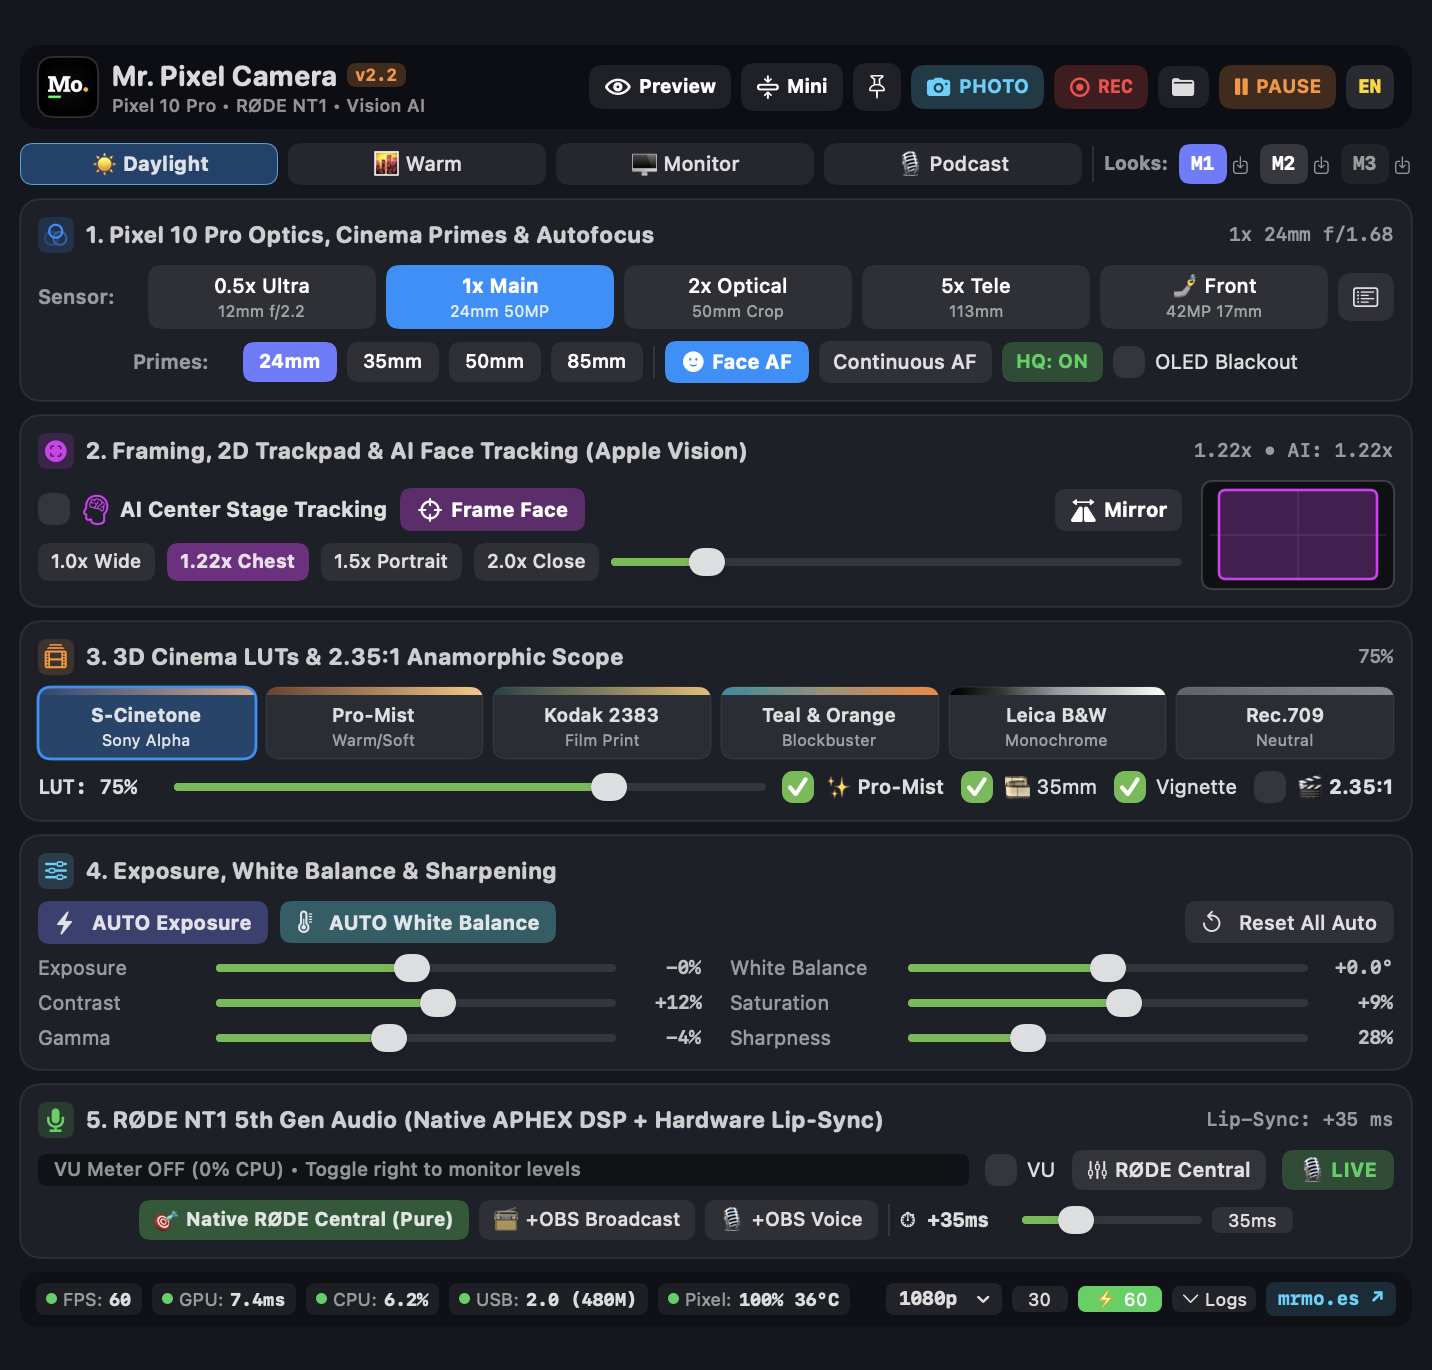
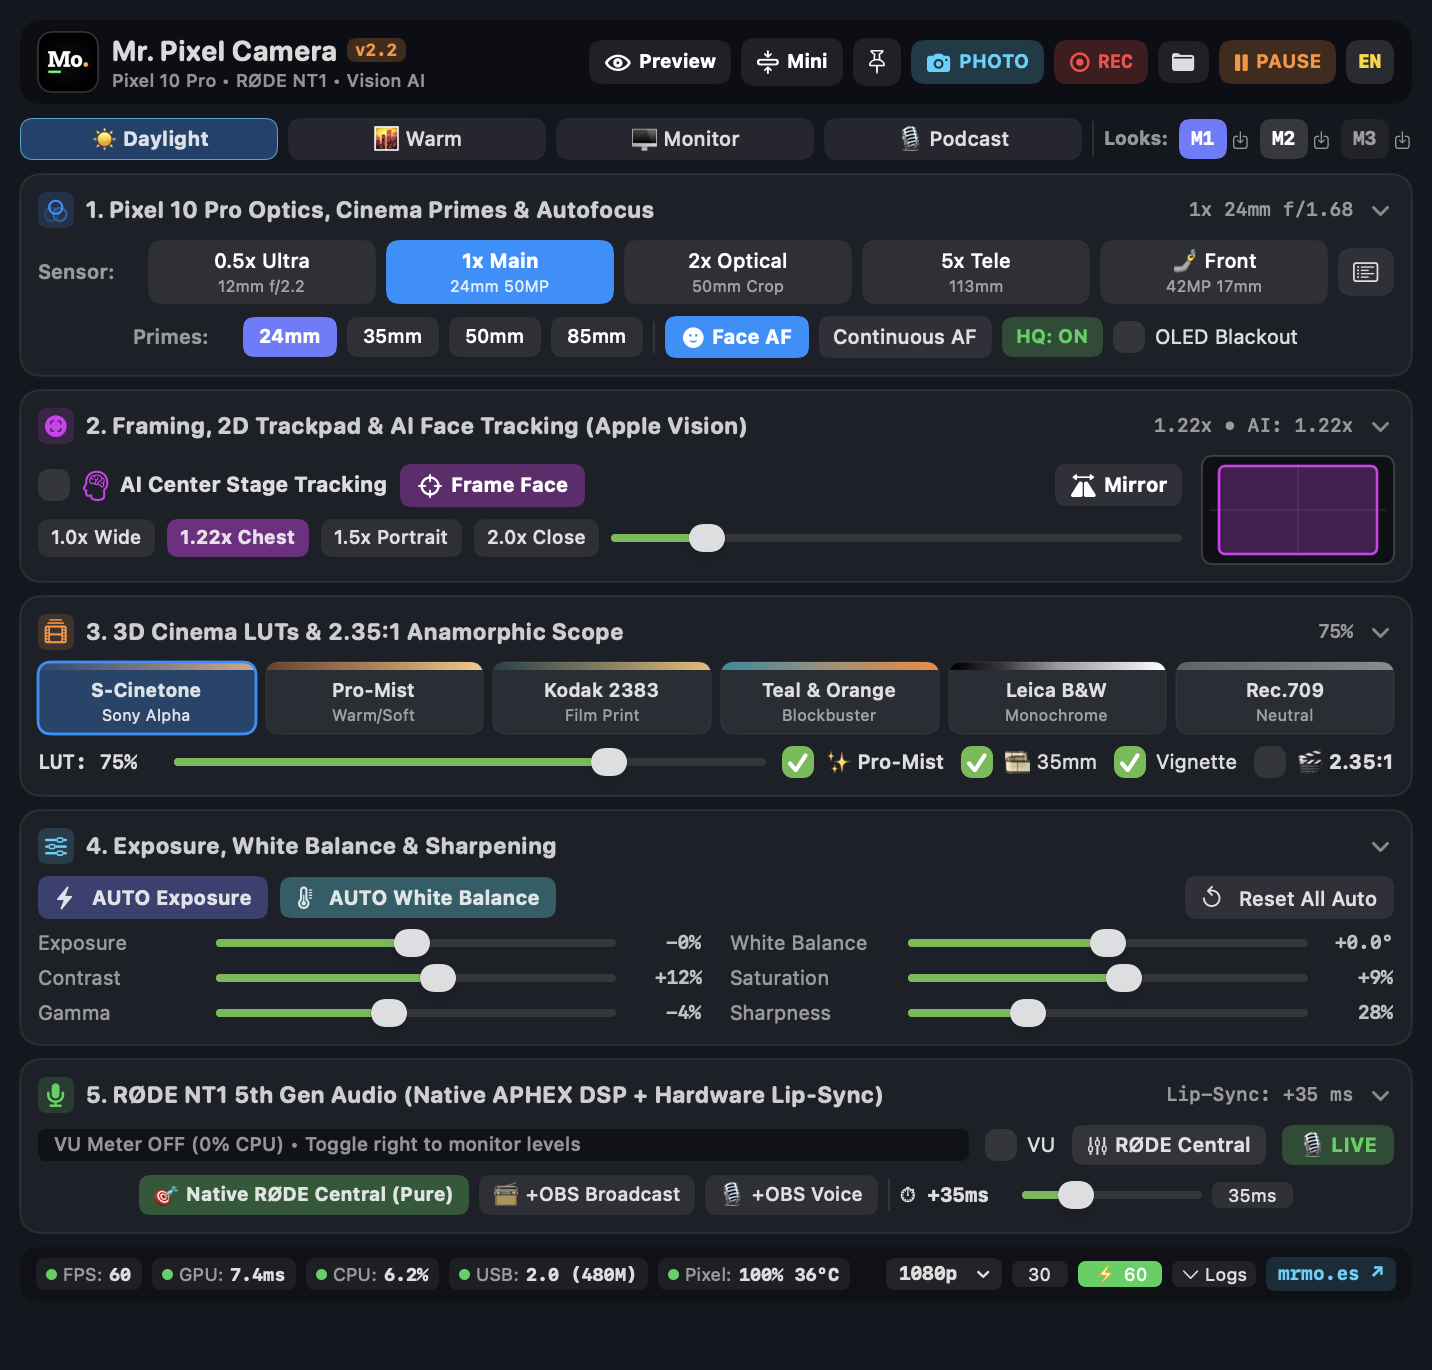
Add collapsible section accordions with auto-resize, 3-way OLED Blackout auto-restore, and tuned 35mm Grain

diff --git a/macos/PixelProCamStudio.swift b/macos/PixelProCamStudio.swift
@@ -107,6 +107,7 @@ struct StudioPersistentState: Codable {
     var showGridOverlay: Bool
     var isHQMode: Bool
     var activeMemorySlot: Int
+    var collapsedCards: [Int]?
     var windowX: Double?
     var windowY: Double?
 }
@@ -130,6 +131,7 @@ final class StudioController: NSObject, ObservableObject, URLSessionWebSocketDel
     @Published var miniMode: Bool = false
     @Published var showPreview: Bool = false
     @Published var showGridOverlay: Bool = true
+    @Published var collapsedCards: Set<Int> = []
     @Published var activeMemorySlot: Int = 0 // 0 = none, 1..3 = M1..M3
     @Published var savedSlotsMask: Set<Int> = []
     @Published var autoStartObsEnabled: Bool = {
@@ -368,6 +370,9 @@ final class StudioController: NSObject, ObservableObject, URLSessionWebSocketDel
         showGridOverlay = s.showGridOverlay
         isHQMode = s.isHQMode
         activeMemorySlot = s.activeMemorySlot
+        if let cc = s.collapsedCards {
+            collapsedCards = Set(cc)
+        }
         if let wx = s.windowX, let wy = s.windowY {
             savedWindowOrigin = NSPoint(x: wx, y: wy)
         }
@@ -417,6 +422,7 @@ final class StudioController: NSObject, ObservableObject, URLSessionWebSocketDel
             showGridOverlay: showGridOverlay,
             isHQMode: isHQMode,
             activeMemorySlot: activeMemorySlot,
+            collapsedCards: Array(collapsedCards).sorted(),
             windowX: savedWindowOrigin.map { Double($0.x) },
             windowY: savedWindowOrigin.map { Double($0.y) }
         )
@@ -424,6 +430,35 @@ final class StudioController: NSObject, ObservableObject, URLSessionWebSocketDel
             UserDefaults.standard.set(encoded, forKey: lastSetupKey)
             hasSavedLastSetup = true
         }
+    }
+
+    // MARK: - Accordion Collapse State & Dynamic Window Height
+    func toggleCardCollapsed(_ cardId: Int) {
+        if collapsedCards.contains(cardId) {
+            collapsedCards.remove(cardId)
+        } else {
+            collapsedCards.insert(cardId)
+        }
+        scheduleSaveLastSetup()
+        onWindowSizeChangeRequested?()
+    }
+
+    var targetWindowHeight: CGFloat {
+        if miniMode { return 118 }
+        var h: CGFloat = 685
+        let bodySavings: [Int: CGFloat] = [
+            1: 72,  // Card 1: Optics & Primes
+            2: 66,  // Card 2: Framing, 2D Pad & AI
+            3: 74,  // Card 3: 3D LUTs & Shaders
+            4: 102, // Card 4: Exposure, WB & Detail
+            5: 66   // Card 5: RØDE Audio & Lip-Sync
+        ]
+        for id in collapsedCards {
+            h -= (bodySavings[id] ?? 66)
+        }
+        if showPreview { h += 192 }
+        if showLogs { h += 104 }
+        return max(260, h)
     }
 
     // MARK: - Live Preview Monitor Control
@@ -1419,9 +1454,9 @@ final class StudioController: NSObject, ObservableObject, URLSessionWebSocketDel
                 "filterSettings": [
                     "from_file": true,
                     "shader_file_name": grainPath,
-                    "Grain_Amount": 0.018,
-                    "Grain_Size": 1.25,
-                    "Color_Grain": 0.16
+                    "Grain_Amount": 0.036,
+                    "Grain_Size": 1.50,
+                    "Color_Grain": 0.22
                 ]
             ], id: "auto_create_grain")
             knownObsFilters.insert(filmGrainFilterName)
@@ -1650,10 +1685,56 @@ final class StudioController: NSObject, ObservableObject, URLSessionWebSocketDel
         isBlackoutEnabled = enabled
         FileLogger.shared.log("BLACKOUT", "OLED Blackout = \(enabled)")
         if enabled {
-            runADBCommand("svc power stayon usb && settings put system screen_brightness_mode 0 && settings put system screen_brightness 1")
+            // 1. Save real Pixel brightness & adaptive brightness mode before dimming (never overwrite if already saved).
+            // 2. Dim OLED to minimum (stayon usb).
+            // 3. Start a zero-CPU Android watcher: if USB cable is unplugged, Pixel itself restores exact brightness + Auto-Brightness within 2s!
+            let cmd = """
+            if [ ! -f /data/local/tmp/mrpixel_bright.env ]; then \
+              M=$(settings get system screen_brightness_mode 2>/dev/null); \
+              B=$(settings get system screen_brightness 2>/dev/null); \
+              case "$M" in 0|1) ;; *) M=1 ;; esac; \
+              case "$B" in ''|*[!0-9]*) B=140 ;; esac; \
+              if [ "$B" -lt 15 ]; then B=140; M=1; fi; \
+              printf 'SAVED_MODE=%s\\nSAVED_BRIGHT=%s\\n' "$M" "$B" > /data/local/tmp/mrpixel_bright.env; \
+            fi; \
+            if [ -f /data/local/tmp/mrpixel_blackout.pid ]; then kill $(cat /data/local/tmp/mrpixel_blackout.pid) 2>/dev/null || true; fi; \
+            svc power stayon usb && settings put system screen_brightness_mode 0 && settings put system screen_brightness 1; \
+            nohup sh -c 'echo $$ > /data/local/tmp/mrpixel_blackout.pid; while [ "$(cat /sys/class/power_supply/usb/online 2>/dev/null)" = "1" ]; do sleep 2; done; if [ -f /data/local/tmp/mrpixel_bright.env ]; then . /data/local/tmp/mrpixel_bright.env; settings put system screen_brightness_mode "${SAVED_MODE:-1}"; settings put system screen_brightness "${SAVED_BRIGHT:-140}"; rm -f /data/local/tmp/mrpixel_bright.env /data/local/tmp/mrpixel_blackout.pid; fi' >/dev/null 2>&1 &
+            """
+            runADBCommand(cmd)
         } else {
-            runADBCommand("settings put system screen_brightness 130")
+            let restoreCmd = """
+            if [ -f /data/local/tmp/mrpixel_blackout.pid ]; then kill $(cat /data/local/tmp/mrpixel_blackout.pid) 2>/dev/null || true; rm -f /data/local/tmp/mrpixel_blackout.pid; fi; \
+            if [ -f /data/local/tmp/mrpixel_bright.env ]; then \
+              . /data/local/tmp/mrpixel_bright.env; \
+              settings put system screen_brightness_mode "${SAVED_MODE:-1}"; \
+              settings put system screen_brightness "${SAVED_BRIGHT:-140}"; \
+              rm -f /data/local/tmp/mrpixel_bright.env; \
+            else \
+              settings put system screen_brightness_mode 1; \
+              settings put system screen_brightness 140; \
+            fi
+            """
+            runADBCommand(restoreCmd)
         }
+        onStatusChangeForMenuBar?()
+    }
+
+    func restorePixelBrightnessSyncIfBlackedOut() {
+        guard isBlackoutEnabled, FileManager.default.isExecutableFile(atPath: adbPath) else { return }
+        isBlackoutEnabled = false
+        let restoreCmd = "if [ -f /data/local/tmp/mrpixel_blackout.pid ]; then kill $(cat /data/local/tmp/mrpixel_blackout.pid) 2>/dev/null || true; rm -f /data/local/tmp/mrpixel_blackout.pid; fi; if [ -f /data/local/tmp/mrpixel_bright.env ]; then . /data/local/tmp/mrpixel_bright.env; settings put system screen_brightness_mode \"${SAVED_MODE:-1}\"; settings put system screen_brightness \"${SAVED_BRIGHT:-140}\"; rm -f /data/local/tmp/mrpixel_bright.env; else settings put system screen_brightness_mode 1; settings put system screen_brightness 140; fi"
+        let task = Process()
+        task.executableURL = URL(fileURLWithPath: adbPath)
+        task.arguments = ["-s", pixelSerial, "shell", restoreCmd]
+        task.standardOutput = Pipe()
+        task.standardError = Pipe()
+        try? task.run()
+        let deadline = Date().addingTimeInterval(1.2)
+        while task.isRunning && Date() < deadline {
+            Thread.sleep(forTimeInterval: 0.05)
+        }
+        if task.isRunning { task.terminate() }
     }
 
     // MARK: - 7. Pixel 10 Pro Hardware ADB Commands
@@ -1981,24 +2062,36 @@ struct InteractiveFramingPad: View {
     }
 }
 
-// MARK: - Pro Cinema Card Container
+// MARK: - Pro Cinema Collapsible Accordion Card Container
 struct StudioCard<Content: View>: View {
     let title: String
     let icon: String
     let accent: Color
     let trailingText: String?
+    let isCollapsed: Bool
+    let onToggleCollapse: () -> Void
     let content: Content
 
-    init(title: String, icon: String, accent: Color, trailingText: String? = nil, @ViewBuilder content: () -> Content) {
+    init(
+        title: String,
+        icon: String,
+        accent: Color,
+        trailingText: String? = nil,
+        isCollapsed: Bool = false,
+        onToggleCollapse: @escaping () -> Void = {},
+        @ViewBuilder content: () -> Content
+    ) {
         self.title = title
         self.icon = icon
         self.accent = accent
         self.trailingText = trailingText
+        self.isCollapsed = isCollapsed
+        self.onToggleCollapse = onToggleCollapse
         self.content = content()
     }
 
     var body: some View {
-        VStack(alignment: .leading, spacing: 6) {
+        VStack(alignment: .leading, spacing: isCollapsed ? 0 : 6) {
             HStack(spacing: 6) {
                 Image(systemName: icon)
                     .font(.system(size: 10.5, weight: .bold))
@@ -2018,8 +2111,20 @@ struct StudioCard<Content: View>: View {
                         .font(.system(size: 9.5, weight: .medium, design: .monospaced))
                         .foregroundColor(.secondary)
                 }
+
+                Image(systemName: isCollapsed ? "chevron.right" : "chevron.down")
+                    .font(.system(size: 9.5, weight: .bold))
+                    .foregroundColor(.secondary.opacity(0.85))
+                    .frame(width: 14, height: 14)
             }
-            content
+            .contentShape(Rectangle())
+            .onTapGesture {
+                onToggleCollapse()
+            }
+
+            if !isCollapsed {
+                content
+            }
         }
         .padding(9)
         .background(RoundedRectangle(cornerRadius: 10, style: .continuous).fill(Color.white.opacity(0.04)))
@@ -2036,11 +2141,7 @@ struct StudioPanelView: View {
     }
 
     var computedHeight: CGFloat {
-        if ctrl.miniMode { return 118 }
-        var h: CGFloat = 685
-        if ctrl.showPreview { h += 192 }
-        if ctrl.showLogs { h += 104 }
-        return h
+        return ctrl.targetWindowHeight
     }
 
     var body: some View {
@@ -2307,7 +2408,14 @@ struct StudioPanelView: View {
                 }
 
                 // CARD 1: OPTICS, PHYSICAL LENSES & AUTOFOCUS
-                StudioCard(title: ctrl.tr("1. Оптика Pixel 10 Pro, Кино-фиксы и Автофокус", "1. Pixel 10 Pro Optics, Cinema Primes & Autofocus"), icon: "camera.filters", accent: .blue, trailingText: ctrl.currentCameraFacing) {
+                StudioCard(
+                    title: ctrl.tr("1. Оптика Pixel 10 Pro, Кино-фиксы и Автофокус", "1. Pixel 10 Pro Optics, Cinema Primes & Autofocus"),
+                    icon: "camera.filters",
+                    accent: .blue,
+                    trailingText: ctrl.currentCameraFacing,
+                    isCollapsed: ctrl.collapsedCards.contains(1),
+                    onToggleCollapse: { ctrl.toggleCardCollapsed(1) }
+                ) {
                     VStack(spacing: 6) {
                         if !ctrl.pixelScreenUnlocked {
                             HStack(spacing: 6) {
@@ -2384,12 +2492,20 @@ struct StudioPanelView: View {
                             ))
                             .toggleStyle(.checkbox)
                             .font(.system(size: 10))
+                            .help(ctrl.tr("Затемнить OLED-экран Pixel (яркость и автояркость вернутся автоматически при снятии галочки, закрытии или отключении кабеля)", "Dim Pixel OLED screen (auto-restores exact brightness & Adaptive Brightness when unchecked, on quit, or on USB unplug)"))
                         }
                     }
                 }
 
                 // CARD 2: FRAMING, INTERACTIVE 2D PAD & APPLE VISION AI
-                StudioCard(title: ctrl.tr("2. Кадрирование, 2D-Трекпад & ИИ-Трекинг (Apple Vision)", "2. Framing, 2D Trackpad & AI Face Tracking (Apple Vision)"), icon: "viewfinder.circle.fill", accent: .purple, trailingText: String(format: "%.2fx • AI: %@", ctrl.zoomLevel, ctrl.aiFaceStatus)) {
+                StudioCard(
+                    title: ctrl.tr("2. Кадрирование, 2D-Трекпад & ИИ-Трекинг (Apple Vision)", "2. Framing, 2D Trackpad & AI Face Tracking (Apple Vision)"),
+                    icon: "viewfinder.circle.fill",
+                    accent: .purple,
+                    trailingText: String(format: "%.2fx • AI: %@", ctrl.zoomLevel, ctrl.aiFaceStatus),
+                    isCollapsed: ctrl.collapsedCards.contains(2),
+                    onToggleCollapse: { ctrl.toggleCardCollapsed(2) }
+                ) {
                     HStack(spacing: 10) {
                         VStack(spacing: 6) {
                             HStack(spacing: 6) {
@@ -2450,7 +2566,14 @@ struct StudioPanelView: View {
                 }
 
                 // CARD 3: 3D CINEMA LUT CARDS WITH COLOR SWATCHES & 2.35:1 SCOPE
-                StudioCard(title: ctrl.tr("3. Кинематографические 3D LUT и Анаморфотное Каше 2.35:1", "3. 3D Cinema LUTs & 2.35:1 Anamorphic Scope"), icon: "film.stack", accent: .orange, trailingText: "\(Int(ctrl.lutIntensity * 100))%") {
+                StudioCard(
+                    title: ctrl.tr("3. Кинематографические 3D LUT и Анаморфотное Каше 2.35:1", "3. 3D Cinema LUTs & 2.35:1 Anamorphic Scope"),
+                    icon: "film.stack",
+                    accent: .orange,
+                    trailingText: "\(Int(ctrl.lutIntensity * 100))%",
+                    isCollapsed: ctrl.collapsedCards.contains(3),
+                    onToggleCollapse: { ctrl.toggleCardCollapsed(3) }
+                ) {
                     VStack(spacing: 6) {
                         HStack(spacing: 5) {
                             lutCard(title: "S-Cinetone", sub: "Sony Alpha", id: "sony",
@@ -2512,7 +2635,13 @@ struct StudioPanelView: View {
                 }
 
                 // CARD 4: 2-COLUMN EXPOSURE, WHITE BALANCE & DETAIL MATRIX
-                StudioCard(title: ctrl.tr("4. Экспозиция, Баланс Белого (ББ) и Детализация", "4. Exposure, White Balance & Sharpening"), icon: "slider.horizontal.3", accent: .cyan) {
+                StudioCard(
+                    title: ctrl.tr("4. Экспозиция, Баланс Белого (ББ) и Детализация", "4. Exposure, White Balance & Sharpening"),
+                    icon: "slider.horizontal.3",
+                    accent: .cyan,
+                    isCollapsed: ctrl.collapsedCards.contains(4),
+                    onToggleCollapse: { ctrl.toggleCardCollapsed(4) }
+                ) {
                     VStack(spacing: 5) {
                         HStack(spacing: 6) {
                             Button(action: { ctrl.resetExposureAuto() }) {
@@ -2555,7 +2684,14 @@ struct StudioPanelView: View {
                 }
 
                 // CARD 5: RØDE NT1 5th Gen STUDIO AUDIO & HARDWARE LIP-SYNC
-                StudioCard(title: ctrl.tr("5. Аудио RØDE NT1 5th Gen (Родной APHEX DSP + Аппаратный Lip-Sync)", "5. RØDE NT1 5th Gen Audio (Native APHEX DSP + Hardware Lip-Sync)"), icon: "mic.fill", accent: .green, trailingText: "Lip-Sync: +\(Int(ctrl.rodeLipSyncMs)) ms") {
+                StudioCard(
+                    title: ctrl.tr("5. Аудио RØDE NT1 5th Gen (Родной APHEX DSP + Аппаратный Lip-Sync)", "5. RØDE NT1 5th Gen Audio (Native APHEX DSP + Hardware Lip-Sync)"),
+                    icon: "mic.fill",
+                    accent: .green,
+                    trailingText: "Lip-Sync: +\(Int(ctrl.rodeLipSyncMs)) ms",
+                    isCollapsed: ctrl.collapsedCards.contains(5),
+                    onToggleCollapse: { ctrl.toggleCardCollapsed(5) }
+                ) {
                     VStack(spacing: 5) {
                         HStack(spacing: 8) {
                             IsolatedVuMeterBar(
@@ -2718,7 +2854,7 @@ struct StudioPanelView: View {
             }
         }
         .padding(10)
-        .frame(width: 716, height: computedHeight)
+        .frame(width: 716, height: computedHeight, alignment: .top)
         .background(Color(red: 0.08, green: 0.09, blue: 0.12))
         .preferredColorScheme(.dark)
     }
@@ -2858,11 +2994,7 @@ class AppDelegate: NSObject, NSApplicationDelegate, NSMenuDelegate, NSWindowDele
         NSApp.appearance = NSAppearance(named: .darkAqua)
 
         let contentView = StudioPanelView(ctrl: ctrl)
-        var initH: CGFloat = ctrl.miniMode ? 118 : 685
-        if !ctrl.miniMode {
-            if ctrl.showPreview { initH += 192 }
-            if ctrl.showLogs { initH += 104 }
-        }
+        let initH: CGFloat = ctrl.targetWindowHeight
         window = FloatingStudioPanel(
             contentRect: NSRect(x: 0, y: 0, width: 716, height: initH),
             styleMask: [.titled, .closable, .miniaturizable, .resizable],
@@ -2970,15 +3102,12 @@ class AppDelegate: NSObject, NSApplicationDelegate, NSMenuDelegate, NSWindowDele
             ctrl.savedWindowOrigin = win.frame.origin
         }
         ctrl.saveLastSetupNow()
+        ctrl.restorePixelBrightnessSyncIfBlackedOut()
     }
 
     func resizeWindowSmoothly() {
         guard let win = window else { return }
-        var targetH: CGFloat = ctrl.miniMode ? 118 : 685
-        if !ctrl.miniMode {
-            if ctrl.showPreview { targetH += 192 }
-            if ctrl.showLogs { targetH += 104 }
-        }
+        let targetH: CGFloat = ctrl.targetWindowHeight
         let currentFrame = win.frame
         let newContentRect = NSRect(x: 0, y: 0, width: 716, height: targetH)
         let newFrameSize = win.frameRect(forContentRect: newContentRect).size
@@ -3083,6 +3212,11 @@ class AppDelegate: NSObject, NSApplicationDelegate, NSMenuDelegate, NSWindowDele
         letterboxItem.target = self
         letterboxItem.state = ctrl.letterboxEnabled ? .on : .off
         menu.addItem(letterboxItem)
+
+        let blackoutItem = NSMenuItem(title: ctrl.tr("🌙 OLED Blackout (Экран Pixel)", "🌙 OLED Blackout (Pixel Screen)"), action: #selector(menuToggleBlackout), keyEquivalent: "")
+        blackoutItem.target = self
+        blackoutItem.state = ctrl.isBlackoutEnabled ? .on : .off
+        menu.addItem(blackoutItem)
 
         menu.addItem(NSMenuItem.separator())
 
@@ -3217,6 +3351,7 @@ class AppDelegate: NSObject, NSApplicationDelegate, NSMenuDelegate, NSWindowDele
     @objc func menuToggleProMist() { ctrl.setProMist(!ctrl.proMistEnabled) }
     @objc func menuToggleFilmGrain() { ctrl.setFilmGrain(!ctrl.filmGrainEnabled) }
     @objc func menuToggleLetterbox() { ctrl.setCinemaLetterbox(!ctrl.letterboxEnabled) }
+    @objc func menuToggleBlackout() { ctrl.togglePixelBlackout(!ctrl.isBlackoutEnabled) }
     @objc func menuSet60Fps() { ctrl.setCameraFpsMode(use60Fps: true) }
     @objc func menuSet30Fps() { ctrl.setCameraFpsMode(use60Fps: false) }
     @objc func menuToggleAutoObs() { ctrl.toggleAutoStartObs(!ctrl.autoStartObsEnabled) }
